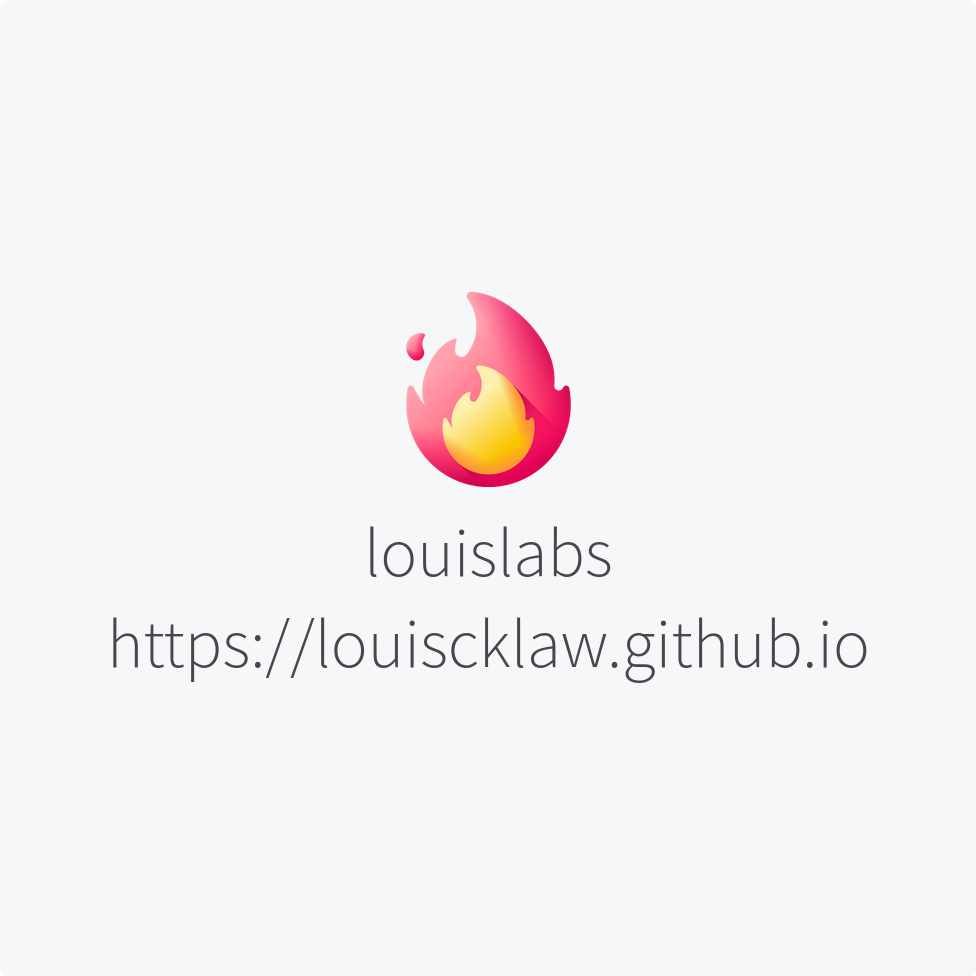
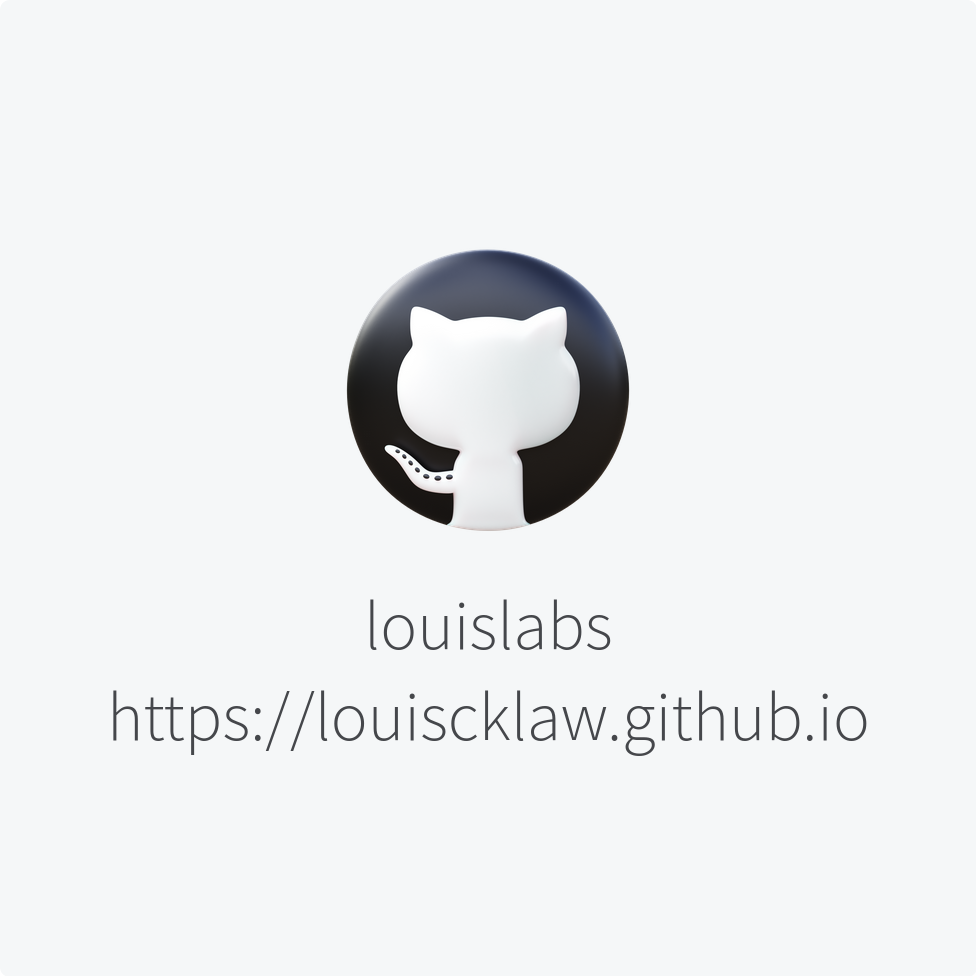
update,

Changed region(s): [[0.0922, 0.2459, 0.8914, 0.7684]]

diff --git a/src/social-image/default/index.html b/src/social-image/default/index.html
@@ -30,12 +30,12 @@
       <div style="display: flex; flex-direction: column; justify-content: center; align-items: center; height: 100%">
         <div
           style="
-            height: 200px;
-            width: 200px;
+            height: 350px;
+            width: 350px;
             background-size: contain;
             background-position: center;
             background-repeat: no-repeat;
-            background-image: url('./3d-fire.png');
+            background-image: url('./icon.png');
           "
         ></div>
         <div
